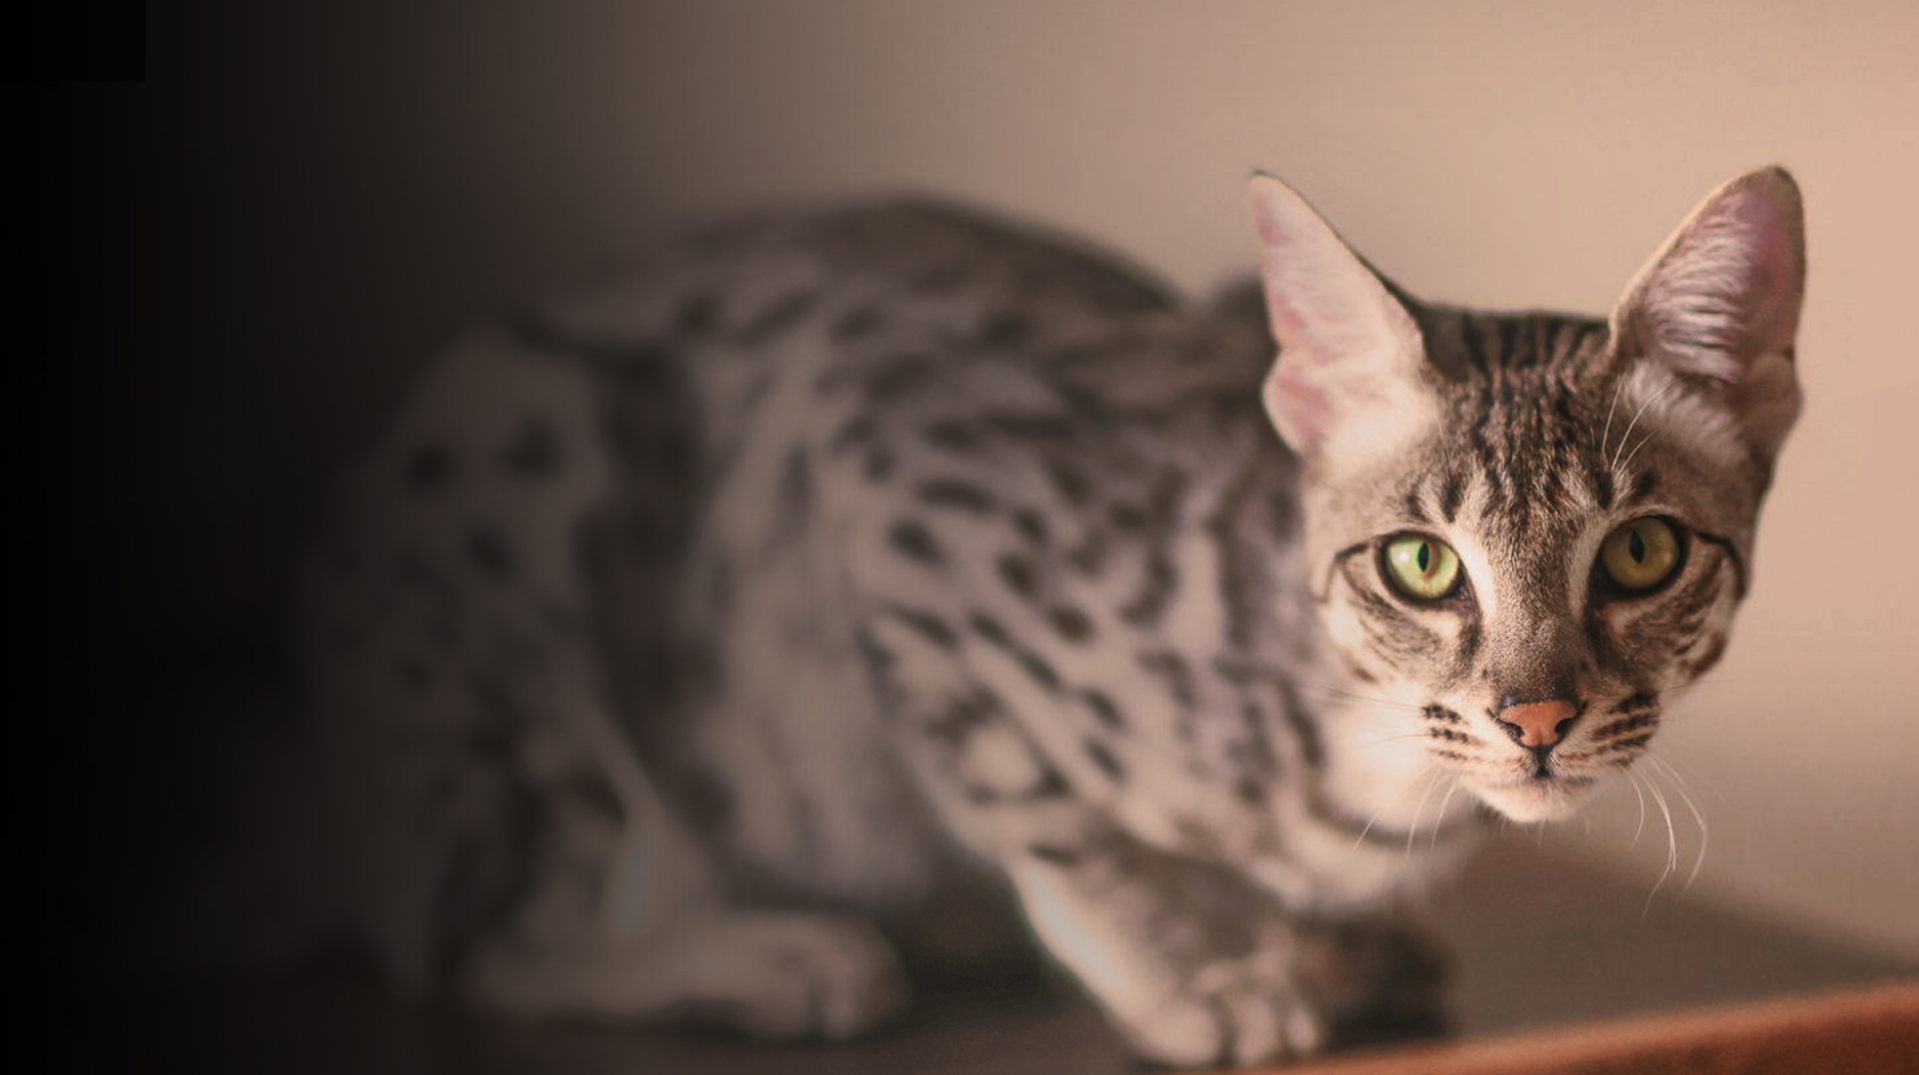
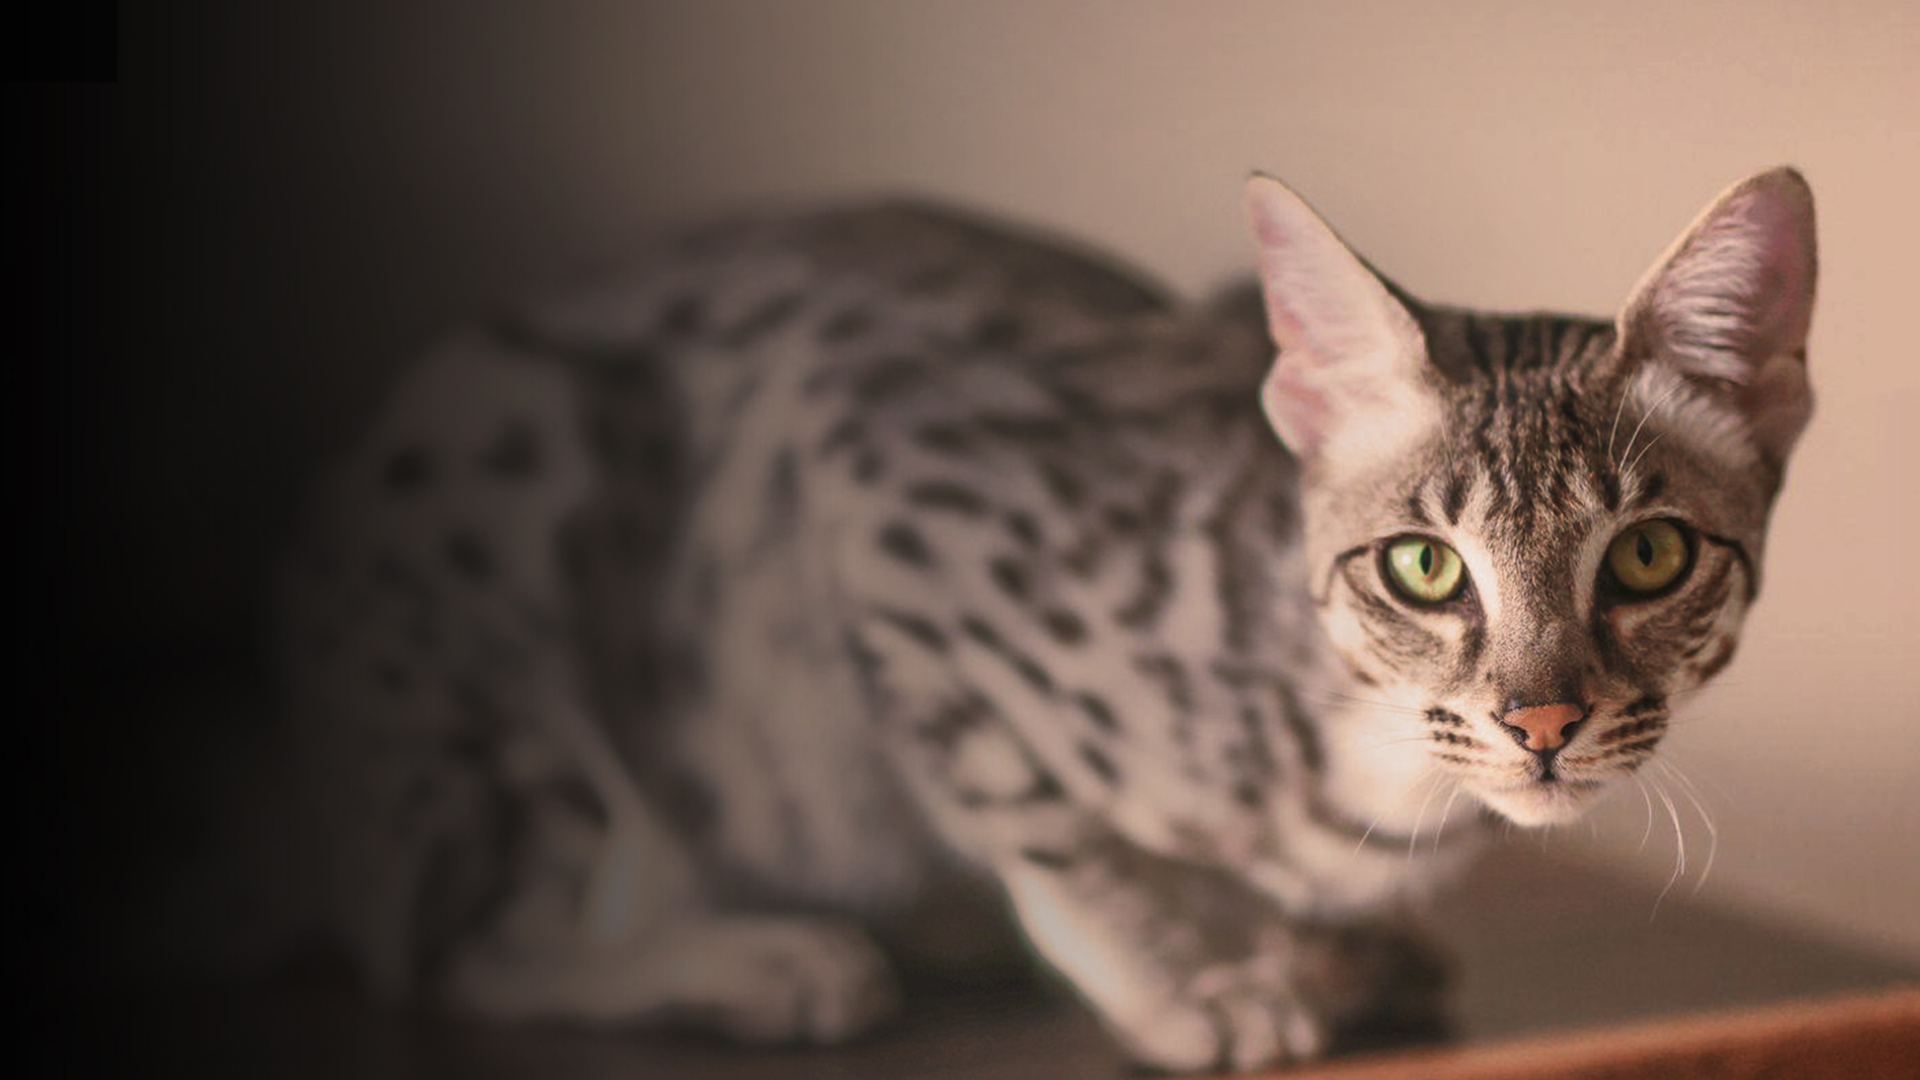
upd Header

diff --git a/src/widgets/Header/styles.module.scss b/src/widgets/Header/styles.module.scss
@@ -1,28 +1,37 @@
 .header {
     width: 100%;
-    // position: relative;
     display: flex;
 }
 
 .navbar {
     position: absolute;
     top: 0;
-    left: 100px;
+    right: 110px;
+    display: flex;
+    align-items: center;
+    padding: 40px 0;
+    gap: 48px;
 }
 
 .picture {
     pointer-events: none;
-    object-fit: cover; 
-    object-position: bottom;
+    object-fit: cover;
     width: 100%;
     height: 100vh;
+}
+
+.buttonSigin {
+    width: 200px;
+    display: flex;
+    justify-content: center;
+    align-items: center;
 }
 
 .buttonHeader {
     z-index: 10;
     position: absolute;
     top: 630px; //FIX LATER
-    left: 100px; //FIX LATER
+    left: 110px; //FIX LATER
     width: 360px;
     display: flex;
     justify-content: space-between;
@@ -33,7 +42,7 @@
     z-index: 10;
     position: absolute;
     top: 270px; //FIX LATER
-    left: 100px; //FIX LATER
+    left: 110px; //FIX LATER
 
     .text {
         color: var(--white);

diff --git a/src/widgets/Header/Header.js b/src/widgets/Header/Header.js
@@ -10,6 +10,11 @@ export const Header = () => {
         <section className={styles.header}>
             <div className={styles.navbar}>
                 <Navbar />
+                <Button
+                    className={styles.buttonSigin}
+                    variant="secondary">
+                    войти
+                </Button>
             </div>
             <img
                 className={styles.picture}

diff --git a/src/feature/Navbar/Navbar.module.scss b/src/feature/Navbar/Navbar.module.scss
@@ -15,7 +15,6 @@
     gap: 48px;
     font-size: var(--font-size-m);
     z-index: 10;
-    padding: 50px 0;
     font-weight: 400;
 }
 
